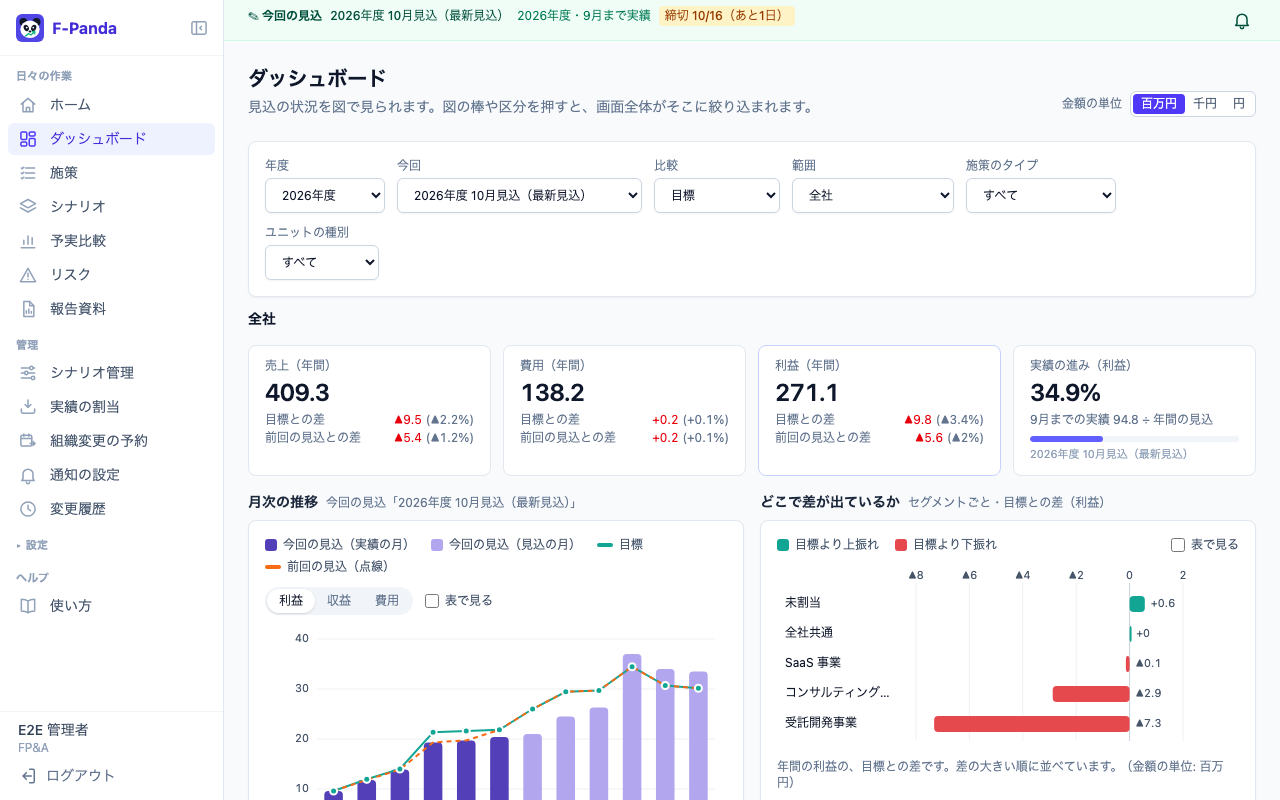
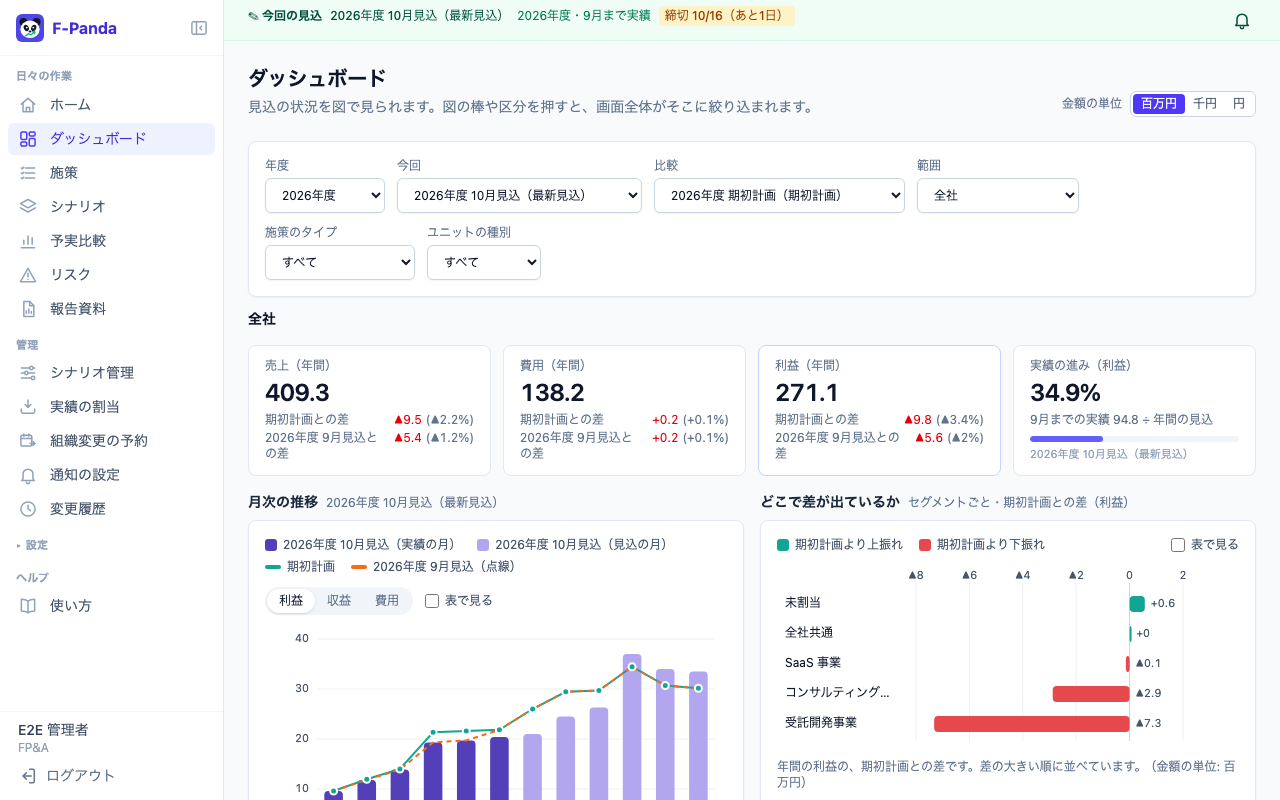
fix: ダッシュボードの「表で見る」を外すと図が大きくなるのを直し、比較をシナリオのエイリアス・名前で出す

diff --git a/web/src/pages/dashboard/DashboardPage.tsx b/web/src/pages/dashboard/DashboardPage.tsx
@@ -3,6 +3,7 @@ import { api, query } from '../../api/client'
 import {
   activityTypeLabels,
   noteStatusLabels,
+  planRoleLabels,
   unitTypeLabels,
   type Activity,
   type ActivityProgressReport,
@@ -157,7 +158,15 @@ function Dashboard({
   const compare = f.compare === 'previous' ? previous : target
   const compareScenario = compare && compare.id !== scenario?.id ? compare : undefined
   const previousScenario = previous && previous.id !== scenario?.id ? previous : undefined
-  const compareLabel = f.compare === 'previous' ? '前回の見込' : '目標'
+  // 系列の名前: 比較の目標（修正計画、なければ期初計画）はエイリアス、ほかはシナリオ名で出す（「目標」「今回」だけだと、どのシナリオか分からないため）
+  const nameOf = (s: Scenario | undefined, fallback: string) => (s ? s.name : fallback)
+  const aliasOrName = (s: Scenario | undefined, fallback: string) => (s ? (s.plan_role ? planRoleLabels[s.plan_role] : s.name) : fallback)
+  const labels = {
+    current: scenario ? nameOf(scenario, '') : '',
+    previous: nameOf(previousScenario, '前回の見込'),
+    compare: f.compare === 'previous' ? nameOf(previousScenario, '前回の見込') : aliasOrName(compareScenario, '目標'),
+  }
+  const compareLabel = labels.compare
 
   const ids = scenario ? [...new Set([scenario.id, compareScenario?.id, previousScenario?.id].filter((x): x is number => x !== undefined))] : []
   const reportQuery = ids.length > 0 ? query({ scenario_ids: ids.join(',') }) : null
@@ -230,7 +239,8 @@ function Dashboard({
         years={years}
         inYear={inYear}
         scenario={scenario}
-        hasPrevious={previousScenario !== undefined}
+        target={target && target.id !== scenario.id ? target : undefined}
+        previous={previousScenario}
         set={set}
         role={me.role}
       />
@@ -253,11 +263,13 @@ function Dashboard({
                 compare={keys.compare ? totals.get(keys.compare)!.year : null}
                 previous={keys.previous ? totals.get(keys.previous)!.year : null}
                 compareLabel={compareLabel}
+                previousLabel={labels.previous}
+                showPrevious={f.compare !== 'previous'}
                 actualThrough={scenario.actual_through}
                 scenario={scenario}
               />
               <div className="grid gap-4 xl:grid-cols-2">
-                <Section title="月次の推移" sub={`今回の見込「${scenarioLabel(scenario)}」`}>
+                <Section title="月次の推移" sub={scenarioLabel(scenario)}>
                   <TrendChart
                     months={months}
                     actualThrough={scenario.actual_through}
@@ -268,10 +280,10 @@ function Dashboard({
                     }}
                     measure={f.measure}
                     onMeasure={(m) => set({ measure: m })}
-                    compareLabel={compareLabel}
+                    labels={labels}
                   />
                 </Section>
-                <VarianceSection f={f} tree={tree} units={units} activities={dashActivities} scope={scope} rows={rows} keys={keys} categoryOf={categoryOf} months={months} compareLabel={compareLabel} onGroup={onGroup} />
+                <VarianceSection f={f} tree={tree} units={units} activities={dashActivities} scope={scope} rows={rows} keys={keys} categoryOf={categoryOf} months={months} compareLabel={compareLabel} currentLabel={labels.current} onGroup={onGroup} />
                 <ChangesSection
                   f={f}
                   tree={tree}
@@ -287,6 +299,7 @@ function Dashboard({
                   onGroup={onGroup}
                   onCause={(c) => set({ cause: f.cause === c ? null : c })}
                   statusById={statusById}
+                  labels={labels}
                 />
                 <CertaintySection risk={risk.data!} status={status.data!} scope={scope} f={f} onLevel={(code) => set({ level: f.level === code ? null : code })} />
               </div>
@@ -333,7 +346,8 @@ function FilterBar({
   years,
   inYear,
   scenario,
-  hasPrevious,
+  target,
+  previous,
   set,
   role,
 }: {
@@ -341,7 +355,9 @@ function FilterBar({
   years: number[]
   inYear: Scenario[]
   scenario: Scenario
-  hasPrevious: boolean
+  /** 比較の目標（修正計画、なければ期初計画）と前回の見込のシナリオ */
+  target: Scenario | undefined
+  previous: Scenario | undefined
   set: (patch: Partial<DashFilters>) => void
   role: string
 }) {
@@ -368,10 +384,12 @@ function FilterBar({
           </Select>
         </Control>
         <Control label="比較">
-          <Select aria-label="比較" value={f.compare} onChange={(e) => set({ compare: e.target.value as DashFilters['compare'] })} className="w-36 py-1 text-xs">
-            <option value="target">目標</option>
-            <option value="previous" disabled={!hasPrevious}>
-              前回の見込
+          <Select aria-label="比較" value={f.compare} onChange={(e) => set({ compare: e.target.value as DashFilters['compare'] })} className="w-64 py-1 text-xs">
+            <option value="target" disabled={!target}>
+              {target ? scenarioLabel(target) : '目標（修正計画・期初計画）なし'}
+            </option>
+            <option value="previous" disabled={!previous}>
+              {previous ? `${previous.name}（前回の見込）` : '前回の見込なし'}
             </option>
           </Select>
         </Control>
@@ -464,6 +482,8 @@ function KpiTiles({
   compare,
   previous,
   compareLabel,
+  previousLabel,
+  showPrevious,
   actualThrough,
   scenario,
 }: {
@@ -471,6 +491,9 @@ function KpiTiles({
   compare: PL | null
   previous: PL | null
   compareLabel: string
+  previousLabel: string
+  /** 比較とは別に、前回の見込との差も出すか（比較が前回の見込なら出さない） */
+  showPrevious: boolean
   actualThrough: string | null
   scenario: Scenario
 }) {
@@ -483,7 +506,7 @@ function KpiTiles({
     const v = pick(current.year)
     const diffs: { label: string; diff: bigint; rate: number | null }[] = []
     if (compare) diffs.push({ label: compareLabel, diff: v - pick(compare), rate: varianceRate(pick(compare), v) })
-    if (previous && compareLabel !== '前回の見込') diffs.push({ label: '前回の見込', diff: v - pick(previous), rate: varianceRate(pick(previous), v) })
+    if (previous && showPrevious) diffs.push({ label: previousLabel, diff: v - pick(previous), rate: varianceRate(pick(previous), v) })
     const good = (d: bigint) => (d === 0n ? null : measure === 'expense' ? d < 0n : d > 0n)
     return (
       <div key={measure} className={cx('rounded-lg border bg-white px-4 py-3', measure === 'profit' ? 'border-indigo-200' : 'border-slate-200')}>
@@ -540,6 +563,7 @@ function VarianceSection({
   categoryOf,
   months,
   compareLabel,
+  currentLabel,
   onGroup,
 }: {
   f: DashFilters
@@ -552,6 +576,7 @@ function VarianceSection({
   categoryOf: (id: number) => Subject['category'] | undefined
   months: string[]
   compareLabel: string
+  currentLabel: string
   onGroup: (g: Group) => void
 }) {
   if (!keys.compare) {
@@ -573,7 +598,7 @@ function VarianceSection({
           <Empty>金額のある区分がありません。</Empty>
         </Card>
       ) : (
-        <VarianceChart bars={bars} compareLabel={compareLabel} onSelect={(b: VarianceBar) => onGroup(b.group)} />
+        <VarianceChart bars={bars} compareLabel={compareLabel} currentLabel={currentLabel} onSelect={(b: VarianceBar) => onGroup(b.group)} />
       )}
     </Section>
   )
@@ -596,6 +621,7 @@ function ChangesSection({
   onGroup,
   onCause,
   statusById,
+  labels,
 }: {
   f: DashFilters
   tree: Tree
@@ -611,6 +637,7 @@ function ChangesSection({
   onGroup: (g: Group) => void
   onCause: (c: ReturnType<typeof causeKeyOf>) => void
   statusById: Map<number, ActivityProgressReport['items'][number]>
+  labels: { current: string; previous: string }
 }) {
   const { signed } = useAmountUnit()
   if (!keys.previous) {
@@ -639,7 +666,7 @@ function ChangesSection({
     const g = groupOfActivity(a)
     return g ? { key: g.key, label: g.name, filter: g.kind === 'unallocated' ? null : { kind: 'group', group: g }, current, previous } : { key: 'other', label: 'その他', filter: null, current, previous }
   })
-  const steps = waterfall(entries)
+  const steps = waterfall(entries, 8, { start: labels.previous, end: labels.current })
   const onSelect = (s: Step) => {
     if (s.filter?.kind === 'group') onGroup(s.filter.group)
     else if (s.filter?.kind === 'cause') onCause(s.filter.cause)
@@ -652,7 +679,7 @@ function ChangesSection({
     .sort((x, y) => (x.diff < 0n ? -x.diff : x.diff) > (y.diff < 0n ? -y.diff : y.diff) ? -1 : 1)
     .slice(0, 3)
   return (
-    <Section title="前回から何が変わったか" sub="前回の見込 → 今回の見込（利益）">
+    <Section title="前回から何が変わったか" sub={`前回の見込「${labels.previous}」→「${labels.current}」（利益）`}>
       <WaterfallCard
         steps={steps}
         mode={mode}

diff --git a/web/src/pages/dashboard/DashboardCharts.tsx b/web/src/pages/dashboard/DashboardCharts.tsx
@@ -36,15 +36,17 @@ export function TrendChart({
   series,
   measure,
   onMeasure,
-  compareLabel,
+  labels,
 }: {
   months: string[]
   actualThrough: string | null
   series: TrendSeries
   measure: Measure
   onMeasure: (m: Measure) => void
-  compareLabel: string
+  /** 系列の名前（今回・比較・前回の見込のシナリオの名前かエイリアス） */
+  labels: { current: string; compare: string; previous: string }
 }) {
+  const compareLabel = labels.compare
   const { man, yen } = useChartFormat()
   const { tip, active, props } = useMarks()
   const { table, toggle } = useTableView()
@@ -72,10 +74,10 @@ export function TrendChart({
     <ChartCard
       legend={
         <>
-          <Swatch shape="square" color={trend.actual} label="今回の見込（実績の月）" />
-          <Swatch shape="square" color={trend.plan} label="今回の見込（見込の月）" />
+          <Swatch shape="square" color={trend.actual} label={`${labels.current}（実績の月）`} />
+          <Swatch shape="square" color={trend.plan} label={`${labels.current}（見込の月）`} />
           {series.compare && <Swatch shape="line" color={trend.target} label={compareLabel} />}
-          {series.previous && <Swatch shape="line" color={trend.previous} label="前回の見込（点線）" />}
+          {series.previous && <Swatch shape="line" color={trend.previous} label={`${labels.previous}（点線）`} />}
         </>
       }
       actions={
@@ -91,9 +93,9 @@ export function TrendChart({
             <thead>
               <tr>
                 <th>月</th>
-                <th className="text-right">今回の見込</th>
+                <th className="text-right">{labels.current}</th>
                 {series.compare && <th className="text-right">{compareLabel}</th>}
-                {series.previous && <th className="text-right">前回の見込</th>}
+                {series.previous && <th className="text-right">{labels.previous}</th>}
               </tr>
             </thead>
             <tbody>
@@ -127,9 +129,9 @@ export function TrendChart({
               const top = py(Math.max(0, v))
               const height = Math.max(1, Math.abs(py(v) - py(0)))
               const bw = Math.min(28, step * 0.56)
-              const rows: [string, string][] = [['今回の見込', yen(v)]]
+              const rows: [string, string][] = [[labels.current, yen(v)]]
               if (series.compare) rows.push([compareLabel, yen(val(series.compare, m) ?? 0)])
-              if (series.previous) rows.push(['前回の見込', yen(val(series.previous, m) ?? 0)])
+              if (series.previous) rows.push([labels.previous, yen(val(series.previous, m) ?? 0)])
               return (
                 <g key={m} {...props(m, null, `${monthLabel(m)}: ${rows.map((r) => r.join(' ')).join('、')}`, <TipBody title={`${monthLabel(m)}${isActual(m) ? '（実績）' : ''}`} rows={rows} link={false} />)}>
                   <rect x={M.left + step * i} y={M.top} width={step} height={H - M.top - M.bottom} fill={active(m) ? '#f6f5ff' : 'transparent'} />
@@ -161,7 +163,19 @@ const ROW_H = 30
 const labelWidth = (w: number) => Math.min(200, Math.round(w * 0.3))
 
 /** 区分ごとの比較との差（利益）を、0 を中心に左右へ伸ばす横棒。押すと掘り下げる */
-export function VarianceChart({ bars, compareLabel, onSelect, limit = 12 }: { bars: VarianceBar[]; compareLabel: string; onSelect: (b: VarianceBar) => void; limit?: number }) {
+export function VarianceChart({
+  bars,
+  compareLabel,
+  currentLabel,
+  onSelect,
+  limit = 12,
+}: {
+  bars: VarianceBar[]
+  compareLabel: string
+  currentLabel: string
+  onSelect: (b: VarianceBar) => void
+  limit?: number
+}) {
   const { man, yen, signedYen } = useChartFormat()
   const { tip, active, props } = useMarks()
   const { table, toggle } = useTableView()
@@ -191,7 +205,7 @@ export function VarianceChart({ bars, compareLabel, onSelect, limit = 12 }: { ba
           <thead>
             <tr>
               <th>区分</th>
-              <th className="text-right">今回の見込</th>
+              <th className="text-right">{currentLabel}</th>
               <th className="text-right">{compareLabel}</th>
               <th className="text-right">差</th>
             </tr>
@@ -237,7 +251,7 @@ export function VarianceChart({ bars, compareLabel, onSelect, limit = 12 }: { ba
                 <g
                   key={b.group.key}
                   {...props(b.group.key, target, `${b.group.name}: 差 ${signedYen(d)}`, (
-                    <TipBody title={b.group.name} rows={[['今回の見込', yen(toNum(b.current))], [compareLabel, yen(toNum(b.compare))], ['差', signedYen(d)]]} link={false} hint={hint(b)} />
+                    <TipBody title={b.group.name} rows={[[currentLabel, yen(toNum(b.current))], [compareLabel, yen(toNum(b.compare))], ['差', signedYen(d)]]} link={false} hint={hint(b)} />
                   ))}
                 >
                   <rect x={0} y={y - ROW_H / 2} width={W} height={ROW_H} rx={6} fill={active(b.group.key) ? '#f6f5ff' : 'transparent'} />
@@ -290,7 +304,7 @@ export function WaterfallCard({
     <ChartCard
       legend={
         <>
-          <Swatch shape="square" color={totalColor} label="前回・今回の見込" />
+          <Swatch shape="square" color={totalColor} label="前回・今回の合計" />
           <Swatch shape="square" color={upColor} label="増加" />
           <Swatch shape="square" color={downColor} label="減少" />
         </>

diff --git a/web/src/components/chart.tsx b/web/src/components/chart.tsx
@@ -1,6 +1,6 @@
 // 図の共通の部品（施策の一覧の図・ダッシュボード）。カード・凡例・切り替え・ツールチップ・キーボード操作・文字の幅。
 
-import { useLayoutEffect, useRef, useState, type FocusEvent, type KeyboardEvent, type MouseEvent, type ReactNode } from 'react'
+import { useCallback, useRef, useState, type FocusEvent, type KeyboardEvent, type MouseEvent, type ReactNode } from 'react'
 import { Card, cx } from './ui'
 import { formatAmount, formatSignedAmount } from '../lib/format'
 import { useAmountUnit } from '../lib/amountUnit'
@@ -166,18 +166,21 @@ export function clip(text: string, width: number, fontSize: number): string {
 }
 
 /**
- * 図を描く枠の幅（px）。SVG を実際の幅で描き、文字が縮まないようにする（狭い画面・2列の配置でも読める大きさ）
+ * 図を描く枠の幅（px）。SVG を実際の幅で描き、文字が縮まないようにする（狭い画面・2列の配置でも読める大きさ）。
+ * ref はコールバックなので、「表で見る」などで枠が消えて出直しても、出直した枠を測り直す
  */
 export function useWidth<T extends HTMLElement>(initial = 640) {
-  const ref = useRef<T>(null)
   const [width, setWidth] = useState(initial)
-  useLayoutEffect(() => {
-    const el = ref.current
+  const observer = useRef<ResizeObserver | null>(null)
+  const ref = useCallback((el: T | null) => {
+    observer.current?.disconnect()
+    observer.current = null
     if (!el) return
-    setWidth(Math.max(280, Math.round(el.getBoundingClientRect().width)))
-    const ro = new ResizeObserver(([e]) => setWidth(Math.max(280, Math.round(e.contentRect.width))))
+    const measure = (w: number) => w > 0 && setWidth(Math.max(280, Math.round(w)))
+    measure(el.getBoundingClientRect().width)
+    const ro = new ResizeObserver(([e]) => measure(e.contentRect.width))
     ro.observe(el)
-    return () => ro.disconnect()
+    observer.current = ro
   }, [])
   return [ref, width] as const
 }

diff --git a/web/src/lib/dashboard.ts b/web/src/lib/dashboard.ts
@@ -262,7 +262,7 @@ export type WaterfallEntry = { key: string; label: string; filter: Step['filter'
  * 前回の見込の利益から、区分ごとの増減を積み上げて今回の見込の利益に至る段。
  * 同じ key の entry はまとめる。増減の大きい順に limit 個まで並べ、残りは「その他」にまとめる。増減が 0 の区分は出さない。
  */
-export function waterfall(entries: WaterfallEntry[], limit = 8): Step[] {
+export function waterfall(entries: WaterfallEntry[], limit = 8, labels = { start: '前回の見込', end: '今回の見込' }): Step[] {
   let start = 0n
   let end = 0n
   const buckets = new Map<string, { label: string; filter: Step['filter']; delta: bigint }>()
@@ -277,7 +277,7 @@ export function waterfall(entries: WaterfallEntry[], limit = 8): Step[] {
   const sorted = [...buckets.entries()].filter(([, b]) => b.delta !== 0n).sort((a, b) => (abs(a[1].delta) === abs(b[1].delta) ? 0 : abs(a[1].delta) > abs(b[1].delta) ? -1 : 1))
   const shown = sorted.slice(0, limit)
   const rest = sorted.slice(limit).reduce((s, [, b]) => s + b.delta, 0n)
-  const steps: Step[] = [{ key: 'start', label: '前回の見込', kind: 'total', from: 0n, to: start, filter: null }]
+  const steps: Step[] = [{ key: 'start', label: labels.start, kind: 'total', from: 0n, to: start, filter: null }]
   let acc = start
   for (const [key, b] of shown) {
     steps.push({ key, label: b.label, kind: 'delta', from: acc, to: acc + b.delta, filter: b.filter })
@@ -287,7 +287,7 @@ export function waterfall(entries: WaterfallEntry[], limit = 8): Step[] {
     steps.push({ key: 'rest', label: `その他（${sorted.length - shown.length}件）`, kind: 'delta', from: acc, to: acc + rest, filter: null })
     acc += rest
   }
-  steps.push({ key: 'end', label: '今回の見込', kind: 'total', from: 0n, to: end, filter: null })
+  steps.push({ key: 'end', label: labels.end, kind: 'total', from: 0n, to: end, filter: null })
   return steps
 }
 

diff --git a/web/src/manual/manager.md b/web/src/manual/manager.md
@@ -26,12 +26,13 @@
 
 ![ダッシュボード](/manual/dashboard.png)
 
-- **年間の状況**: 今回の見込の年間の売上・費用・利益と、目標（または前回の見込）との差。実績の進み（実績の月の利益 ÷ 年間の見込）。
+- 上の「比較」で、目標（修正計画、なければ期初計画）か前回の見込を選びます。図や数字には、そのシナリオのエイリアス（例:「期初計画」）やシナリオ名が出ます。
+- **年間の状況**: 今回の見込の年間の売上・費用・利益と、比較との差。実績の進み（実績の月の利益 ÷ 年間の見込）。
 - **月次の推移**: 月ごとの棒（濃い = 実績の月、淡い = 見込の月）に、目標の線と前回の見込の点線を重ねます。利益・収益・費用を切り替えられます。
-- **どこで差が出ているか**: 目標との差を、セグメント → ユニット → 施策の順に横棒で出します。**棒を押すと、画面全体がそこに絞り込まれます**。上のパンくず（全社 › …）で戻れます。
+- **どこで差が出ているか**: 比較との差を、セグメント → ユニット → 施策の順に横棒で出します。**棒を押すと、画面全体がそこに絞り込まれます**。上のパンくず（全社 › …）で戻れます。
 - **前回から何が変わったか**: 前回の見込から今回の見込までの増減を、区分ごと・要因の分類ごと（時期のずれ・新規など）に積み上げます。要因を押すと、その施策だけに絞り込みます。
 - **どれくらい確かか**: 楽観・加重見込・悲観の幅と、売上の確度の構成、更新の進み具合。確度の段階を押すと、その段階の施策に絞り込みます。
-- **施策**: いまの絞り込みの施策を、目標との差の大きい順に並べます。
+- **施策**: いまの絞り込みの施策を、比較との差の大きい順に並べます。
 
 どの図も「表で見る」で数字を表にできます。絞り込みは URL に残るので、リンクを送ると同じ画面を共有できます。
 
